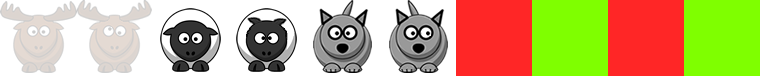
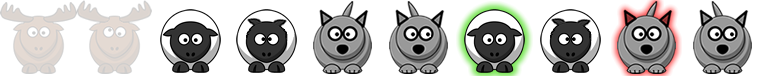
UI changes

diff --git a/app/index.html b/app/index.html
@@ -21,9 +21,9 @@
               <td class="dot"><span></span></td>
               <td class="dot"><span></span></td>
               <td class="dot"><span></span></td>
-              <td class="dot"><span></span></td>
-              <td class="dot"><span></span></td>
-              <td class="dot"><span></span></td>
+              <td class="dot"><span class="wolf filled"></span></td>
+              <td class="dot"><span class="wolf filled"></span></td>
+              <td class="dot"><span class="wolf filled"></span></td>
             </tr>
             <tr>
               <td class="dot"><span></span></td>
@@ -33,51 +33,27 @@
               <td class="dot"><span></span></td>
               <td class="dot"><span></span></td>
               <td class="dot"><span></span></td>
-              <td class="dot"><span></span></td>
-              <td class="dot"><span></span></td>
-              <td class="dot"><span></span></td>
-            </tr>
-            <tr>
-              <td class="dot"><span></span></td>
-              <td class="dot"><span></span></td>
-              <td class="dot"><span></span></td>
-              <td class="dot"><span></span></td>
-              <td class="dot"><span></span></td>
-              <td class="dot"><span></span></td>
-              <td class="dot"><span></span></td>
-              <td class="dot"><span></span></td>
-              <td class="dot"><span></span></td>
-              <td class="dot"><span></span></td>
-            </tr>
-            <tr>
-              <td class="dot"><span></span></td>
-              <td class="dot"><span></span></td>
-              <td class="dot"><span></span></td>
-              <td class="dot"><span></span></td>
-              <td class="dot"><span></span></td>
-              <td class="dot"><span></span></td>
-              <td class="dot"><span></span></td>
-              <td class="dot"><span></span></td>
-              <td class="dot"><span></span></td>
-              <td class="dot"><span></span></td>
-            </tr>
-            <tr>
-              <td class="dot"><span></span></td>
-              <td class="dot"><span class="sheep"></td>
-              <td class="dot"><span class="sheep"></td>
-              <td class="dot"><span class="sheep"></td>
-              <td class="dot"><span></span></td>
-              <td class="dot"><span></span></td>
-              <td class="dot"><span></span></td>
-              <td class="dot"><span></span></td>
-              <td class="dot"><span></span></td>
-              <td class="dot"><span></span></td>
-            </tr>
-            <tr>
-              <td class="dot"><span></span></td>
+              <td class="dot"><span class="wolf filled"></span></td>
               <td class="dot"><span class="sheep"></span></td>
-              <td class="dot"><span class="wolf"></span></td>
-              <td class="dot"><span class="sheep"></td>
+              <td class="dot"><span class="wolf filled"></span></td>
+            </tr>
+            <tr>
+              <td class="dot"><span></span></td>
+              <td class="dot"><span></span></td>
+              <td class="dot"><span></span></td>
+              <td class="dot"><span></span></td>
+              <td class="dot"><span></span></td>
+              <td class="dot"><span></span></td>
+              <td class="dot"><span></span></td>
+              <td class="dot"><span class="wolf filled"></span></td>
+              <td class="dot"><span class="wolf filled"></span></td>
+              <td class="dot"><span class="wolf filled"></span></td>
+            </tr>
+            <tr>
+              <td class="dot"><span></span></td>
+              <td class="dot"><span></span></td>
+              <td class="dot"><span></span></td>
+              <td class="dot"><span></span></td>
               <td class="dot"><span></span></td>
               <td class="dot"><span></span></td>
               <td class="dot"><span></span></td>
@@ -87,9 +63,33 @@
             </tr>
             <tr>
               <td class="dot"><span></span></td>
-              <td class="dot"><span class="sheep"></td>
-              <td class="dot"><span class="sheep"></td>
-              <td class="dot"><span class="sheep"></td>
+              <td class="dot"><span class="sheep filled"></td>
+              <td class="dot"><span class="sheep filled"></td>
+              <td class="dot"><span class="sheep filled"></td>
+              <td class="dot"><span></span></td>
+              <td class="dot"><span></span></td>
+              <td class="dot"><span></span></td>
+              <td class="dot"><span></span></td>
+              <td class="dot"><span></span></td>
+              <td class="dot"><span></span></td>
+            </tr>
+            <tr>
+              <td class="dot"><span></span></td>
+              <td class="dot"><span class="sheep filled"></span></td>
+              <td class="dot"><span class="wolf"></span></td>
+              <td class="dot"><span class="sheep filled"></td>
+              <td class="dot"><span></span></td>
+              <td class="dot"><span></span></td>
+              <td class="dot"><span></span></td>
+              <td class="dot"><span></span></td>
+              <td class="dot"><span></span></td>
+              <td class="dot"><span></span></td>
+            </tr>
+            <tr>
+              <td class="dot"><span></span></td>
+              <td class="dot"><span class="sheep filled"></td>
+              <td class="dot"><span class="sheep filled"></td>
+              <td class="dot"><span class="sheep filled"></td>
               <td class="dot"><span></span></td>
               <td class="dot"><span></span></td>
               <td class="dot"><span></span></td>

diff --git a/app/css/style.css b/app/css/style.css
@@ -54,3 +54,11 @@ table span.wolf {
 table span.wolf:hover {
 	background-position: -380px 0;
 }
+
+table span.sheep.filled {
+	background-position: -456px 0;
+}
+
+table span.wolf.filled {
+	background-position: -608px 0;
+}
